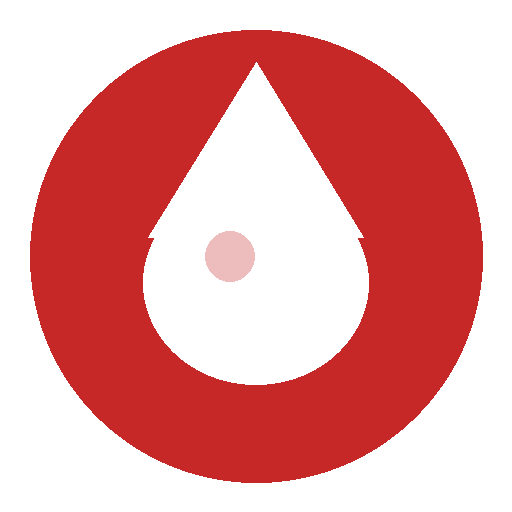
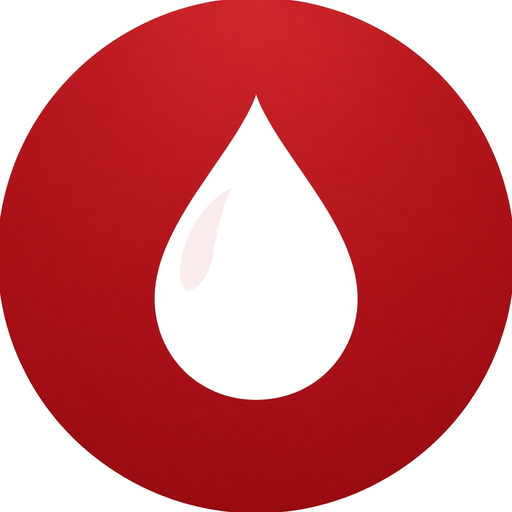
Ikony PWA: nová kapka krve, maskable 512, shell v4
Zachován STORAGE_KEY kapka-zivota-v1. Standalone display pro Android.

diff --git a/sw.js b/sw.js
@@ -1,5 +1,5 @@
 /* Kapka života — service worker */
-const CACHE = 'kapka-zivota-shell-v3';
+const CACHE = 'kapka-zivota-shell-v4';
 const PRECACHE = [
   './',
   './index.html',
@@ -19,6 +19,7 @@ const PRECACHE = [
   './data/stations.json',
   './icons/icon-192.png',
   './icons/icon-512.png',
+  './icons/icon-512-maskable.png',
   './icons/icon.svg'
 ];
 
